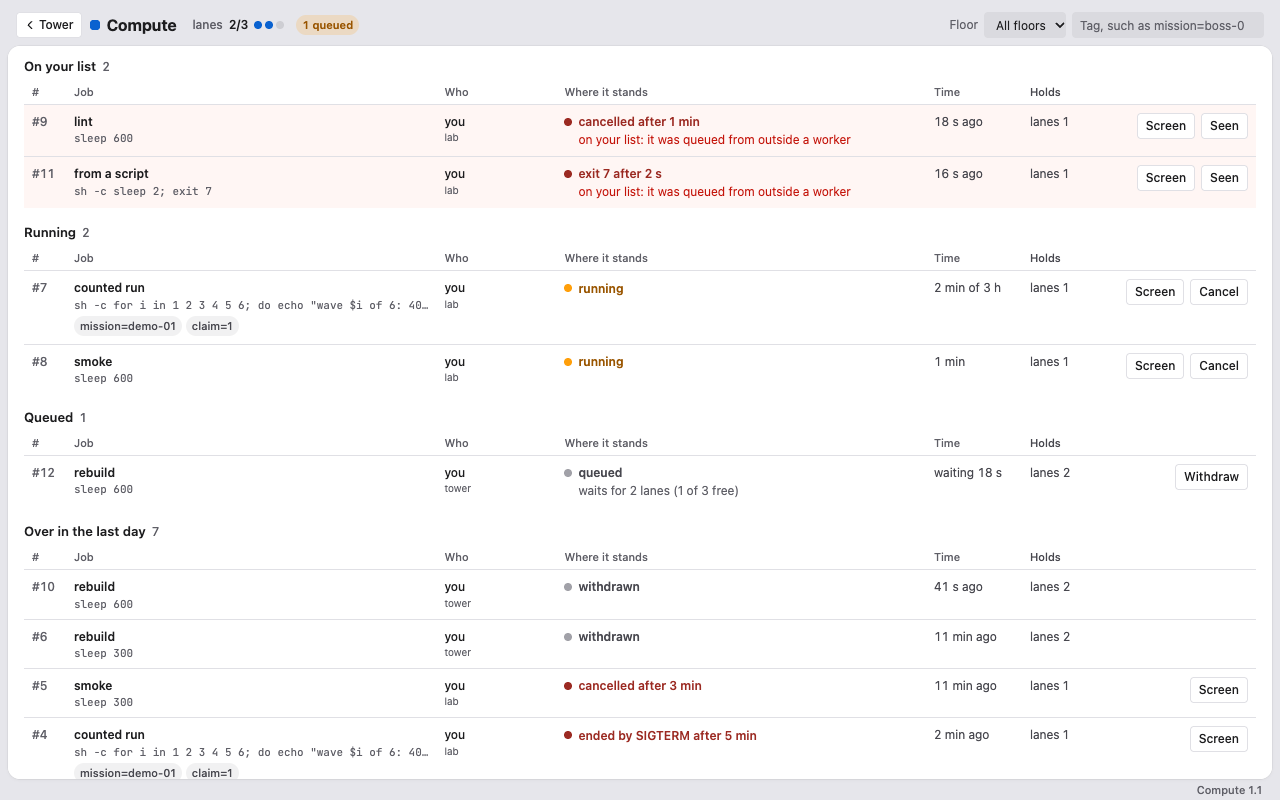
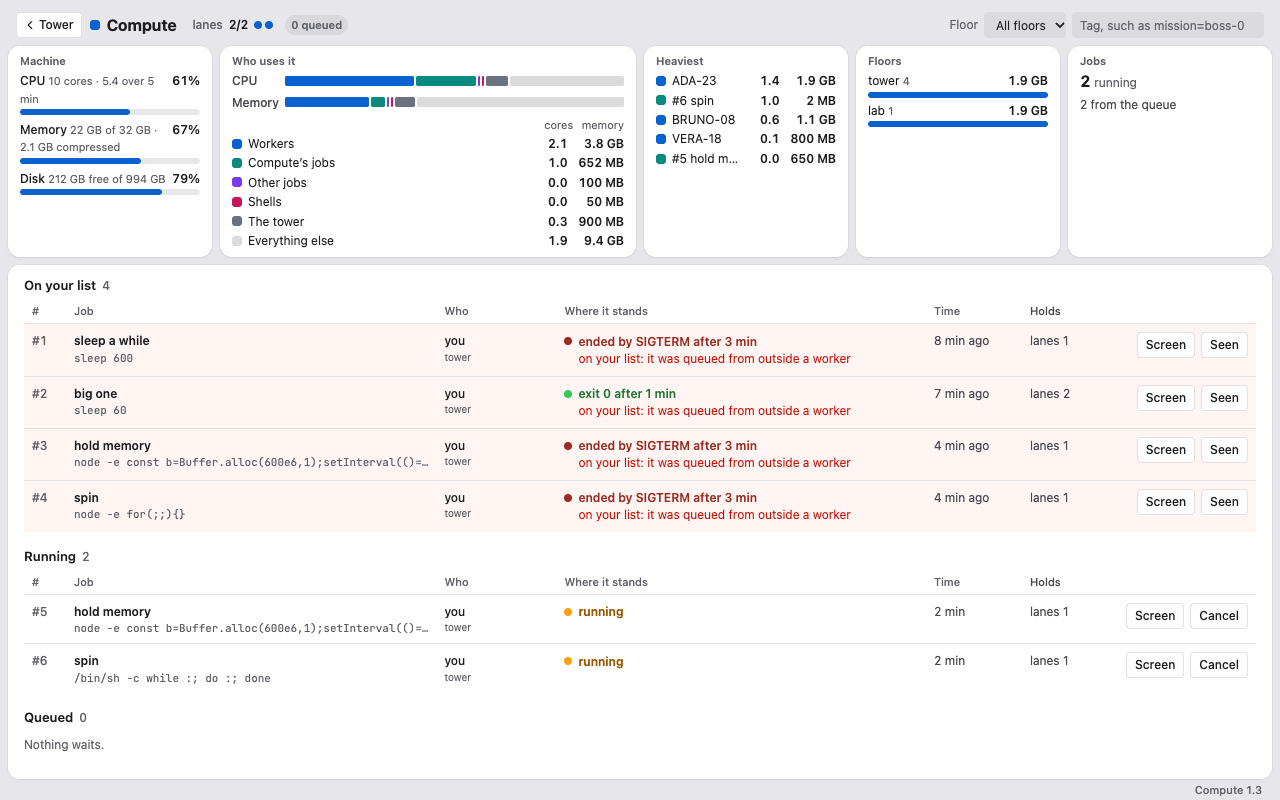
The Compute page shows the machine over the queue
Tiles drawn from the machine read and the board: CPU, memory and disk as
gauges; who uses them, CPU and memory split by owner; the heaviest
workers and jobs; each floor's workers' memory; and every job in the
jobs daemon by who started it. Under 720 px the tiles scroll sideways.
README shots retaken with made-up figures.

diff --git a/renderer/usage.js b/renderer/usage.js
@@ -1,0 +1,147 @@
+/**
+ * The machine and who uses it, a band of tiles over the queue: its CPU, memory and disk; the share of each that
+ * workers, compute's jobs, other jobs, the tower's shells, the tower itself and the rest of the machine hold; the
+ * heaviest workers and jobs; each floor's workers; and every job in the jobs daemon. The measures are compute's
+ * `machine` read, by process and owner, whatever runtime a worker runs; the jobs and floors are the board's.
+ */
+import { esc, plural } from '/lib/words.js'
+
+/**
+ * @typedef {'calm' | 'busy' | 'over'} Tone
+ * @typedef {{ cpu: number, rss: number, procs: number }} Use
+ * @typedef {{ at: number, cpus: number, load: [number, number, number], memory?: { total: number, used: number, compressed?: number },
+ *   disk: { path: string, total: number, free: number }, tones: { load: Tone, memory?: Tone, disk: Tone },
+ *   use: { workers: (Use & { session: string, callsign?: string, project?: string })[], jobs: (Use & { n: number, label?: string })[],
+ *     otherJobs: Use, shells: Use, tower: Use, rest: Use, total: Use } }} Machine
+ * @typedef {{ id: string, callsign: string, project: string, onDuty: boolean, lineage: { id: string }[] }} Card
+ * @typedef {{ id: string, owner: string, state: 'running' | 'ended' | 'cancelled' | 'lost' }} BoardJob
+ */
+
+const TONE_CLASS = { calm: '', busy: 'warm', over: 'hot' }
+
+/** Bytes in the unit that reads best. */
+const bytes = (/** @type {number} */ b) => (b >= 1e12 ? `${(b / 1e12).toFixed(1)} TB` : b >= 1e9 ? `${(b / 1e9).toFixed(b >= 1e10 ? 0 : 1)} GB` : `${Math.round(b / 1e6)} MB`)
+const processes = (/** @type {number} */ n) => `${n} ${n === 1 ? 'process' : 'processes'}`
+/** ps's percent of one core, in cores. */
+const cores = (/** @type {number} */ cpu) => `${(cpu / 100).toFixed(1)}`
+
+const tile = (/** @type {string} */ title, /** @type {string} */ body, /** @type {string} */ cls = '') =>
+  `<article class="tile${cls ? ` ${cls}` : ''}"><h3>${esc(title)}</h3>${body}</article>`
+
+/** A gauge: its name and a note, its figure, and a bar as full as `share`, coloured by its tone. */
+const gauge = (/** @type {string} */ name, /** @type {string} */ note, /** @type {string} */ value, /** @type {number} */ share, /** @type {Tone | undefined} */ tone, /** @type {string} */ tip) =>
+  `<li class="${TONE_CLASS[tone ?? 'calm']}" data-tip="${esc(tip)}"><span>${esc(name)} <small>${esc(note)}</small></span><span class="n">${esc(value)}</span><div class="gauge"><i style="width:${Math.max(0, Math.min(100, share * 100))}%"></i></div></li>`
+
+const machineTile = (/** @type {Machine} */ m) => {
+  const loadShare = m.load[0] / m.cpus
+  const rows = [
+    gauge('CPU', `${m.cpus} cores · ${m.load[1].toFixed(1)} over 5 min`, `${Math.round(loadShare * 100)}%`, loadShare, m.tones.load,
+      `Load ${m.load[0].toFixed(1)} over the last minute against ${m.cpus} cores: past 100%, work waits for a core`),
+    m.memory
+      ? gauge('Memory', `${bytes(m.memory.used)} of ${bytes(m.memory.total)}${m.memory.compressed ? ` · ${bytes(m.memory.compressed)} compressed` : ''}`, `${Math.round((m.memory.used / m.memory.total) * 100)}%`,
+          m.memory.used / m.memory.total, m.tones.memory, 'Memory in use: wired, compressed and what programs hold, as Activity Monitor counts it. Cached files are free to take, so they aren’t in use')
+      : '',
+    gauge('Disk', `${bytes(m.disk.free)} free of ${bytes(m.disk.total)}`, `${Math.round((1 - m.disk.free / m.disk.total) * 100)}%`, 1 - m.disk.free / m.disk.total, m.tones.disk,
+      `The disk holding ${m.disk.path}: how full it is`),
+  ]
+  return tile('Machine', `<ul class="gauges">${rows.join('')}</ul>`)
+}
+
+/** The owners a process can have, in the order the split bars stack them, each in its own series colour. */
+const sum = (/** @type {Use[]} */ us) => us.reduce((a, u) => ({ cpu: a.cpu + u.cpu, rss: a.rss + u.rss, procs: a.procs + u.procs }), { cpu: 0, rss: 0, procs: 0 })
+const groupsOf = (/** @type {Machine} */ m) => [
+  { key: 'workers', name: 'Workers', use: sum(m.use.workers), tip: 'Every process a worker started, whatever its runtime: the agent, its tools, its servers, what it left running' },
+  { key: 'jobs', name: 'Compute’s jobs', use: sum(m.use.jobs), tip: 'The jobs compute’s queue started, and everything they started' },
+  { key: 'other', name: 'Other jobs', use: m.use.otherJobs, tip: 'Jobs in the jobs daemon that compute didn’t start' },
+  { key: 'shells', name: 'Shells', use: m.use.shells, tip: 'The shells the tower page opens, and what runs in them' },
+  { key: 'tower', name: 'The tower', use: m.use.tower, tip: 'The tower’s own daemons: the host, terms, jobs and the tower, extensions included' },
+  { key: 'rest', name: 'Everything else', use: m.use.rest, tip: 'The rest of the machine: your apps, the system' },
+]
+
+/** One bar split by owner: each part as wide as its share of what all processes use. */
+const split = (/** @type {{ key: string, value: number }[]} */ parts) => {
+  const total = parts.reduce((a, p) => a + p.value, 0)
+  return `<div class="split">${parts.filter((p) => p.value > 0).map((p) => `<i class="s-${p.key}" style="flex:${p.value / (total || 1)}"></i>`).join('')}</div>`
+}
+
+const whoTile = (/** @type {Machine} */ m) => {
+  const groups = groupsOf(m)
+  const rows = groups
+    .map((g) => `<li data-tip="${esc(`${g.tip}. ${processes(g.use.procs)}`)}"><span class="key s-${g.key}"></span><span class="one-line">${esc(g.name)}</span><span class="n">${cores(g.use.cpu)}</span><span class="n">${bytes(g.use.rss)}</span></li>`)
+    .join('')
+  return tile(
+    'Who uses it',
+    `<div class="bars"><span>CPU</span>${split(groups.map((g) => ({ key: g.key, value: g.use.cpu })))}<span>Memory</span>${split(groups.map((g) => ({ key: g.key, value: g.use.rss })))}</div>
+     <ul class="legend"><li class="head"><span></span><span></span><span class="n">cores</span><span class="n">memory</span></li>${rows}</ul>`,
+    'wide',
+  )
+}
+
+const heaviestTile = (/** @type {Machine} */ m) => {
+  const rows = [
+    ...m.use.workers.map((w) => ({ key: 'workers', name: w.callsign ?? `…${w.session.slice(-4)}`, where: w.project ?? 'gone from the board', use: w })),
+    ...m.use.jobs.map((j) => ({ key: 'jobs', name: `#${j.n}${j.label ? ` ${j.label}` : ''}`, where: 'compute', use: j })),
+  ]
+    .sort((a, b) => b.use.cpu - a.use.cpu || b.use.rss - a.use.rss)
+    .slice(0, 6)
+  if (!rows.length) return tile('Heaviest', '<p class="muted">No worker or job runs a process now.</p>')
+  return tile(
+    'Heaviest',
+    `<ul class="legend">${rows
+      .map((r) => `<li data-tip="${esc(`${r.name} on ${r.where}: ${processes(r.use.procs)}`)}"><span class="key s-${r.key}"></span><span class="one-line">${esc(r.name)}</span><span class="n">${cores(r.use.cpu)}</span><span class="n">${bytes(r.use.rss)}</span></li>`)
+      .join('')}</ul>`,
+  )
+}
+
+const floorsTile = (/** @type {any} */ board, /** @type {Machine} */ m) => {
+  /** @type {{ id: string, name: string, cards: Card[] }[]} */
+  const floors = board.floors
+  const rows = floors
+    .map((f) => ({ name: f.name, duty: f.cards.filter((c) => c.onDuty).length, use: sum(m.use.workers.filter((w) => w.project === f.id)) }))
+    .filter((r) => r.duty || r.use.procs)
+    .sort((a, b) => b.use.rss - a.use.rss)
+  if (!rows.length) return tile('Floors', '<p class="muted">Nobody is on duty.</p>')
+  const most = Math.max(...rows.map((r) => r.use.rss), 1)
+  const shown = rows.slice(0, 6)
+  return tile(
+    'Floors',
+    `<ul class="floors">${shown
+      .map((r) => `<li data-tip="${esc(`${r.name}: ${plural(r.duty, 'worker')} on duty, ${cores(r.use.cpu)} cores, ${bytes(r.use.rss)} in ${processes(r.use.procs)}`)}"><span class="one-line">${esc(r.name)} <small>${r.duty}</small></span><span class="n">${bytes(r.use.rss)}</span><div class="gauge"><i class="s-workers" style="width:${(r.use.rss / most) * 100}%"></i></div></li>`)
+      .join('')}${rows.length > shown.length ? `<li class="more">${esc(`and ${plural(rows.length - shown.length, 'floor')} more`)}</li>` : ''}</ul>`,
+  )
+}
+
+/** Who a job is by: the user, the worker whose session started it, or the extension that did. */
+const ownerName = (/** @type {string} */ owner, /** @type {Card[]} */ cards) =>
+  owner === 'user' ? 'you' : (cards.find((c) => c.lineage.some((l) => l.id === owner))?.callsign ?? owner)
+
+const jobsTile = (/** @type {any} */ board, /** @type {any} */ c) => {
+  if (!board.jobsUp) return tile('Jobs', '<p class="note broken">The jobs daemon isn’t running: no job starts until it is back.</p>')
+  /** @type {BoardJob[]} */
+  const running = board.jobs.filter((/** @type {BoardJob} */ j) => j.state === 'running')
+  /** @type {Card[]} */
+  const cards = board.floors.flatMap((/** @type {{ cards: Card[] }} */ f) => f.cards)
+  const ours = new Set((c?.jobs ?? []).map((/** @type {{ job?: string }} */ j) => j.job).filter(Boolean))
+  const byOwner = new Map()
+  for (const j of running) {
+    const who = ours.has(j.id) ? 'compute' : ownerName(j.owner, cards)
+    byOwner.set(who, (byOwner.get(who) ?? 0) + 1)
+  }
+  const owners = [...byOwner].sort((a, b) => b[1] - a[1]).map(([who, n]) => (who === 'compute' ? `${n} from the queue` : `${n} by ${who}`))
+  const lost = board.jobs.filter((/** @type {BoardJob} */ j) => j.state === 'lost').length
+  return tile(
+    'Jobs',
+    `<div class="fig" data-tip="Jobs the jobs daemon runs now, whoever started them: compute’s queue, workers, you, extensions"><b>${running.length}</b><span>running</span></div>
+     ${owners.length ? `<p class="sub">${esc(owners.join(' · '))}</p>` : '<p class="sub">nothing runs in the jobs daemon</p>'}
+     ${c?.queued ? `<p class="sub warm">${esc(`${c.queued} queued in compute`)}</p>` : ''}
+     ${lost ? `<p class="sub hot">${esc(`${plural(lost, 'job')} lost: the daemon no longer holds them`)}</p>` : ''}`,
+  )
+}
+
+/** The band: a tile each, the machine first. Until the first read, only the board's tiles. */
+export const usageHtml = (/** @type {any} */ board, /** @type {Machine | { failed: string } | undefined} */ machine) => {
+  const jobs = jobsTile(board, board.x?.compute)
+  if (!machine) return tile('Machine', '<p class="muted">Reading the machine…</p>') + jobs
+  if ('failed' in machine) return tile('Machine', `<p class="note broken">${esc(machine.failed)}</p>`) + jobs
+  return [machineTile(machine), whoTile(machine), heaviestTile(machine), floorsTile(board, machine), jobs].join('')
+}

diff --git a/renderer/compute.css b/renderer/compute.css
@@ -162,6 +162,52 @@ button.act.danger:hover { border-color: color-mix(in oklab, var(--needs) 60%, tr
 .filters input { width: 16em; max-width: 100%; }
 .filters input::placeholder { color: var(--faint); }
 
+/* ---- the machine and who uses it: a band of tiles over the jobs, each a small card in the window (usage.js) ---- */
+/* Each owner of processes in a colour of its own, none of attention's (amber, red, green): workers wear the accent. */
+:root { --s-workers: var(--accent); --s-jobs: #0b8a7f; --s-other: #7c3aed; --s-shells: #c2185b; --s-tower: #6b7280; --s-rest: color-mix(in oklab, var(--ink) 16%, transparent); }
+@media (prefers-color-scheme: dark) { :root:not([data-scheme='light']) { --s-jobs: #2dd4bf; --s-other: #a78bfa; --s-shells: #f472b6; --s-tower: #9ca3af; } }
+:root[data-scheme='dark'] { --s-jobs: #2dd4bf; --s-other: #a78bfa; --s-shells: #f472b6; --s-tower: #9ca3af; }
+.s-workers { --s: var(--s-workers); } .s-jobs { --s: var(--s-jobs); } .s-other { --s: var(--s-other); }
+.s-shells { --s: var(--s-shells); } .s-tower { --s: var(--s-tower); } .s-rest { --s: var(--s-rest); }
+.usage { flex: none; display: grid; grid-template-columns: repeat(auto-fit, minmax(200px, 1fr)); gap: var(--sp-m); margin: 0 var(--sp-m) var(--sp-m); }
+.usage:empty { display: none; }
+.tile { min-width: 0; padding: var(--sp-m) var(--sp-l); background: var(--panel); border-radius: var(--radius-l); box-shadow: var(--card-shadow); font-size: var(--fs-s); }
+.tile.wide { grid-column: span 2; }
+.tile small { color: var(--faint); font-size: var(--fs-xs); font-weight: 400; }
+/* Who uses it: a bar each for CPU and memory, split by owner, over a legend with each owner's figures. */
+.bars { display: grid; grid-template-columns: auto 1fr; align-items: center; gap: var(--sp-xs) var(--sp-s); margin: var(--sp-2xs) 0 var(--sp-s); color: var(--muted); font-weight: 500; }
+.split { display: flex; gap: 2px; height: 10px; }
+.split i { min-width: 2px; border-radius: 2px; background: var(--s); }
+.legend { display: grid; gap: 2px; margin: 0; padding: 0; list-style: none; }
+.legend li { display: grid; grid-template-columns: 10px minmax(0, 1fr) 2.5em 4.2em; align-items: center; gap: var(--sp-s); }
+.legend li.head { color: var(--faint); font-size: var(--fs-xs); }
+.legend .key { width: 10px; height: 10px; border-radius: 3px; background: var(--s); }
+.legend .n { text-align: right; font-variant-numeric: tabular-nums; }
+.legend li:not(.head) .n { font-weight: 600; }
+.tile h3 { margin: 0 0 var(--sp-xs); color: var(--faint); font: 600 var(--fs-xs)/1.3 var(--ui); }
+.tile .sub { margin: var(--sp-xs) 0 0; color: var(--muted); }
+.tile .sub.warm { color: var(--working-text); }
+.tile .sub.hot { color: var(--needs-text); }
+.fig { display: inline-flex; align-items: baseline; gap: var(--sp-xs); }
+.fig b { font: 700 var(--fs-xl)/1.15 var(--display); letter-spacing: -.01em; font-variant-numeric: tabular-nums; }
+.fig span { color: var(--faint); }
+/* Floors: each floor's workers' memory, the floor using most full, its workers on duty beside its name. */
+.floors { display: grid; gap: var(--sp-xs); margin: var(--sp-2xs) 0 0; padding: 0; list-style: none; }
+.floors li { display: grid; grid-template-columns: minmax(0, 1fr) auto; gap: 2px var(--sp-s); }
+.floors li .n { font-weight: 600; font-variant-numeric: tabular-nums; }
+.floors li.more { display: block; color: var(--faint); }
+.floors .gauge i { background: var(--s); }
+/* A gauge: how much of the cores, the memory or the disk is used, accent until it runs warm, then hot. */
+.gauges { display: grid; gap: var(--sp-s); margin: var(--sp-2xs) 0 0; padding: 0; list-style: none; }
+.gauges li { display: grid; grid-template-columns: 1fr auto; gap: 2px var(--sp-s); }
+.gauges li span:first-child { font-weight: 500; }
+.gauges li .n { font-weight: 600; font-variant-numeric: tabular-nums; }
+.gauges li small { color: var(--faint); font-size: var(--fs-xs); font-weight: 400; }
+.gauge { grid-column: 1 / -1; height: 6px; border-radius: 3px; background: color-mix(in oklab, var(--ink) 10%, transparent); overflow: hidden; }
+.gauge i { display: block; height: 100%; border-radius: 3px; background: var(--accent); }
+.gauges li.warm .gauge i { background: var(--working); } .gauges li.warm .n { color: var(--working-text); }
+.gauges li.hot .gauge i { background: var(--needs); } .gauges li.hot .n { color: var(--needs-text); }
+
 /* ---- the jobs: a card set into the window, flat rows in sections ---- */
 main { flex: 1; min-height: 0; overflow-y: auto; margin: 0 var(--sp-m); padding: var(--sp-l) var(--sp-xl); background: var(--panel); border-radius: var(--radius-l); box-shadow: var(--card-shadow); }
 section { margin-bottom: var(--sp-xl); }
@@ -228,6 +274,10 @@ section h2 .count { color: var(--faint); font: 500 var(--fs-s)/1 var(--ui); font
 @media (max-width: 720px) {
   .top { padding: var(--sp-m) var(--sp-l) var(--sp-s); }
   main { margin: 0 var(--sp-s); padding: var(--sp-m) var(--sp-l); }
+  /* The tiles in a row that scrolls sideways, so the jobs keep the height. */
+  .usage { display: flex; align-items: flex-start; overflow-x: auto; scroll-snap-type: x mandatory; margin: 0 var(--sp-s) var(--sp-s); padding-bottom: 2px; }
+  .tile { flex: 0 0 min(80vw, 260px); scroll-snap-align: start; }
+  .tile.wide { flex-basis: min(88vw, 340px); }
   .screen { margin: var(--sp-s) var(--sp-s) 0; }
   .filters { margin-left: 0; }
   .jobs, .jobs tbody, .jobs tr, .jobs td { display: block; width: auto; }

diff --git a/renderer/compute.js b/renderer/compute.js
@@ -9,6 +9,7 @@ import { esc } from '/lib/words.js'
 import { loadTerminalFont, mountTermView, SHELL_SCROLLBACK, terminalFont } from '/lib/terminal.js'
 import { copyText, ICON } from '/lib/view.js'
 import { watchTips } from '/lib/chrome.js'
+import { usageHtml } from './usage.js'
 
 /**
  * @typedef {{ n: number, label: string, argv: string[], cwd: string, project: string, by: string, callsign?: string,
@@ -21,7 +22,7 @@ import { watchTips } from '/lib/chrome.js'
 
 const $ = (/** @type {string} */ id) => /** @type {HTMLElement} */ (document.getElementById(id))
 
-/** @type {{ board?: any, screen?: { n: number, close: () => void } }} */
+/** @type {{ board?: any, machine?: import('./usage.js').Machine | { failed: string }, screen?: { n: number, close: () => void } }} */
 const state = {}
 
 // ---------- the filters, in the hash ----------
@@ -150,6 +151,7 @@ const sectionHtml = (/** @type {string} */ title, /** @type {Job[]} */ jobs, /**
 const draw = () => {
   const board = state.board
   if (!board) return
+  $('usage').innerHTML = usageHtml(board, board.x?.compute ? state.machine : { failed: 'Compute isn’t running: nothing reads the machine.' })
   /** @type {Compute | undefined} */
   const c = board.x?.compute
   if (!c) {
@@ -336,3 +338,19 @@ tower.subscribe((board) => {
 })
 // Elapsed times move between boards.
 setInterval(draw, 30_000)
+
+/** The machine and who uses it, compute's read: it isn't on the board, so the page reads it every 10 s while in sight. */
+const readMachine = async () => {
+  if (document.hidden || !state.board?.x?.compute) return
+  try {
+    state.machine = /** @type {import('./usage.js').Machine} */ (/** @type {unknown} */ (await tower.get(/** @type {any} */ ('compute/machine'))))
+  } catch (err) {
+    state.machine = { failed: `The machine can't be read: ${/** @type {Error} */ (err).message}` }
+  }
+  draw()
+}
+setInterval(readMachine, 10_000)
+document.addEventListener('visibilitychange', () => void readMachine())
+tower.subscribe(() => {
+  if (state.machine === undefined) void readMachine()
+})

diff --git a/renderer/index.html b/renderer/index.html
@@ -21,6 +21,7 @@
     <input id="tag" type="search" placeholder="Tag, such as mission=boss-05" autocomplete="off" spellcheck="false" aria-label="Show the jobs carrying this tag">
   </div>
 </header>
+<section id="usage" class="usage" aria-label="The tower's use"></section>
 <main id="main"><p class="note">Reading the board…</p></main>
 <footer class="foot"><button type="button" id="version" class="version">Compute</button></footer>
 <aside id="screen" class="screen" hidden>

diff --git a/README.md b/README.md
@@ -49,6 +49,9 @@ lanes 3 of 4 in use · 1 queued
 - `cancel <n>`: a queued job is withdrawn; a running one is cancelled in the jobs daemon (SIGTERM to its process group,
   SIGKILL 5 s later), then its cleanup runs and its requester is told.
 - `seen <n>`: takes a job off your list (below).
+- `machine`: the machine and who uses it, read when asked: the load against the cores, memory in use, the disk holding
+  your home folder, and every process's CPU and memory by owner, the heaviest workers and jobs by name. See
+  [Who uses the machine](#who-uses-the-machine).
 
 When a job is over, its cleanup runs, then its requester is told, in this order:
 
@@ -69,7 +72,8 @@ The line:
 
 ### The Compute page
 
-A renderer at `/r/compute/`, drawn from the board's `x.compute` (compute's board part) alone. It wears the look of
+A renderer at `/r/compute/`, drawn from the board (compute's own part, `x.compute`, and the tower's) and compute's
+`machine` read. It wears the look of
 [Lobby](https://github.com/fliptaboada/tower-renderer-lobby), the tower's macOS-style page: the jobs in a card set into
 the window, the system face, greys and a blue accent, light or dark as the tower's scheme is. Colour is kept for where a
 job stands: a job past its hours or on your list in red, a running one amber, one that exited 0 green, a queued or
@@ -77,6 +81,12 @@ withdrawn one grey.
 
 - **The top:** a **Tower** button back to the tower page, then each resource's units in use out of the machine's, as a row of lamps that turns red when it is full and
   jobs wait, and how many are queued. A floor picker and a tag filter, kept in the page's hash so a link keeps them.
+- **The machine,** a band of tiles over the jobs, so the queue is seen beside everything else that shares it, read
+  every 10 s while the page is in sight: the **Machine**'s CPU, memory and disk as gauges that turn amber, then red;
+  **Who uses it**, CPU and memory each a bar split by owner (workers, compute's jobs, other jobs, the tower's shells,
+  the tower itself, everything else); the **Heaviest** workers and jobs; the **Floors** by their workers' memory, with
+  how many are on duty; and every **Job** the jobs daemon runs, compute's or not, by who started it. Under 720 px the
+  tiles scroll sideways.
 - **The jobs,** in sections: on your list, running, queued, and over in the last day. Each row: its number, label,
   command and tags (a tag filters the page by it), who queued it and from which floor, where it stands (what a queued
   job waits for, a running one past its hours, how an over one ended and how its requester was told), how long it has
@@ -108,7 +118,8 @@ way. `contract.json` lists the names held at major 1: they only grow within it.
 
 ## Add it
 
-It needs the tower 2.0 or later and Node 24, and nothing else: it has no runtime dependencies.
+It needs the tower 2.10 or later (a job's `pid` on the board) and Node 24, and nothing else: it has no runtime
+dependencies.
 
 ```sh
 git clone git@github.com:agencyenterprise/tower-extension-compute.git
@@ -178,8 +189,27 @@ To update: `git pull` in your clone, then `tower extensions restart compute`, an
 - **The pure part** (`compute.ts`) holds what the facts mean, which jobs start, and the words. `server.ts` is the shell
   around it: the stream, the board, the jobs daemon, the prompts.
 
-Not yet here, in the order [docs/design.md](docs/design.md) gives: spend pools for paid API keys, disk and memory
-floors, a load read, holds and bumps, and a place in the tower page itself.
+### Who uses the machine
+
+The `machine` read is computed when asked and never stored; a read within 5 s of the last answers the last, so pages
+open together run `ps` once.
+
+- **Load, memory, disk.** The load averages against the cores. Memory in use as Activity Monitor counts it, from
+  `vm_stat` on macOS (wired, compressed, and programs' own pages less the purgeable ones), and from `/proc/meminfo` on
+  Linux (the total less what is available); Node's own free memory leaves out what caches hold and reads near zero on
+  a busy Mac. The disk is the one holding your home folder.
+- **By owner.** Two `ps` reads give every process's parent, process group, CPU and resident memory, and its
+  environment. A process is a compute job's when it carries `COMPUTE_JOB` or is in the group of a running job compute
+  started (a job's pid is its process group); another job's when it is in another running job's group; a worker's when
+  it carries `TOWER_SESSION_ID`, which every process a worker starts inherits, whatever its runtime; the tower's when it
+  is one of its daemons; a shell's when the terms daemon started it. Otherwise it is its parent's, so a program that
+  hides its environment (Apple's own binaries do) counts as whoever started it, and what is left is everything else.
+- **What the numbers are.** CPU is ps's percent of one core, an average over the last moments, shown in cores.
+  Memory is resident memory, which counts shared pages in each process and leaves out what the compressor holds, so the
+  owners' sum is not the memory in use.
+
+Not yet here, in the order [docs/design.md](docs/design.md) gives: spend pools for paid API keys, floors on memory and
+disk that hold starts back, holds and bumps, and a place in the tower page itself.
 
 ## Working on it
 

diff --git a/CHANGELOG.md b/CHANGELOG.md
@@ -8,6 +8,16 @@ meaning); every other release is a **minor**, fixes included. How to cut one:
 
 ## [Unreleased]
 
+### Added
+- `tower x compute machine` (the read `compute/machine`): the machine's load, memory and disk, and every process's CPU
+  and memory by owner: each worker, whatever its runtime, each compute job, other jobs, the tower's shells, the tower
+  itself and everything else.
+- The Compute page shows the machine over the queue, a band of tiles: CPU, memory and disk; who uses them; the
+  heaviest workers and jobs; each floor's workers; and every job in the jobs daemon by who started it.
+
+### Changed
+- Compute needs the tower 2.10, for each job's `pid` on the board: a job's processes are found by its process group.
+
 ## [1.3] - 2026-11-17
 
 ### Fixed
